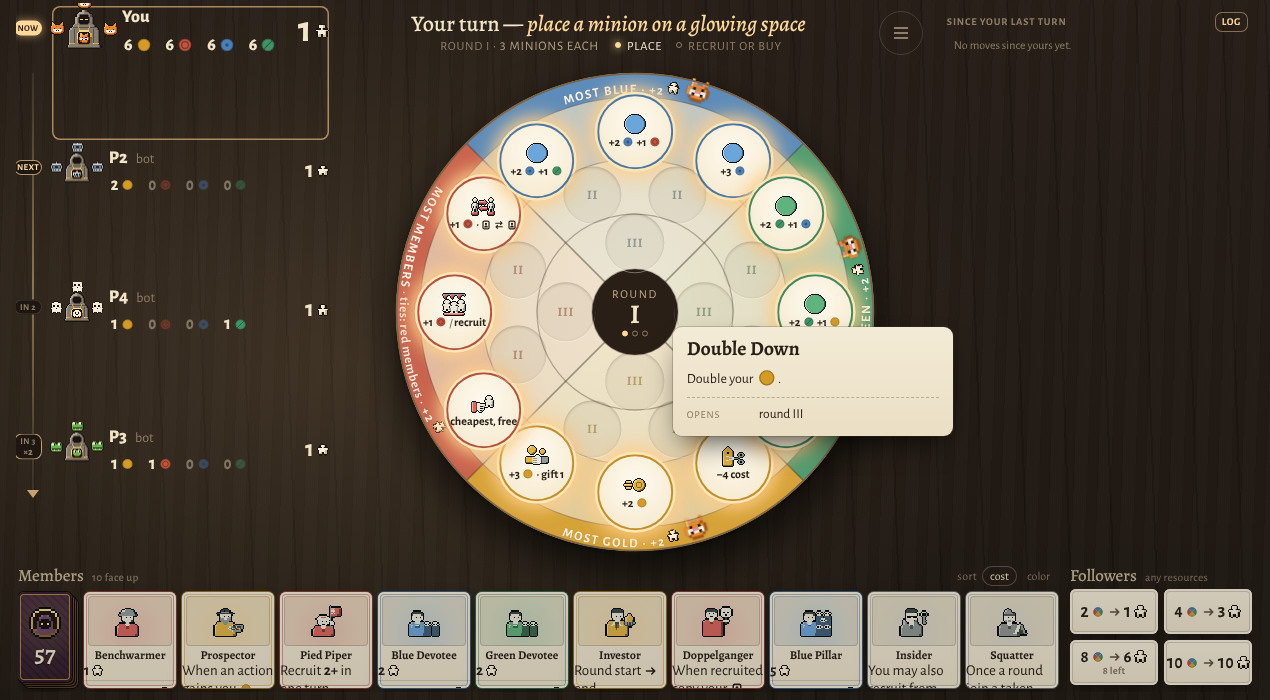
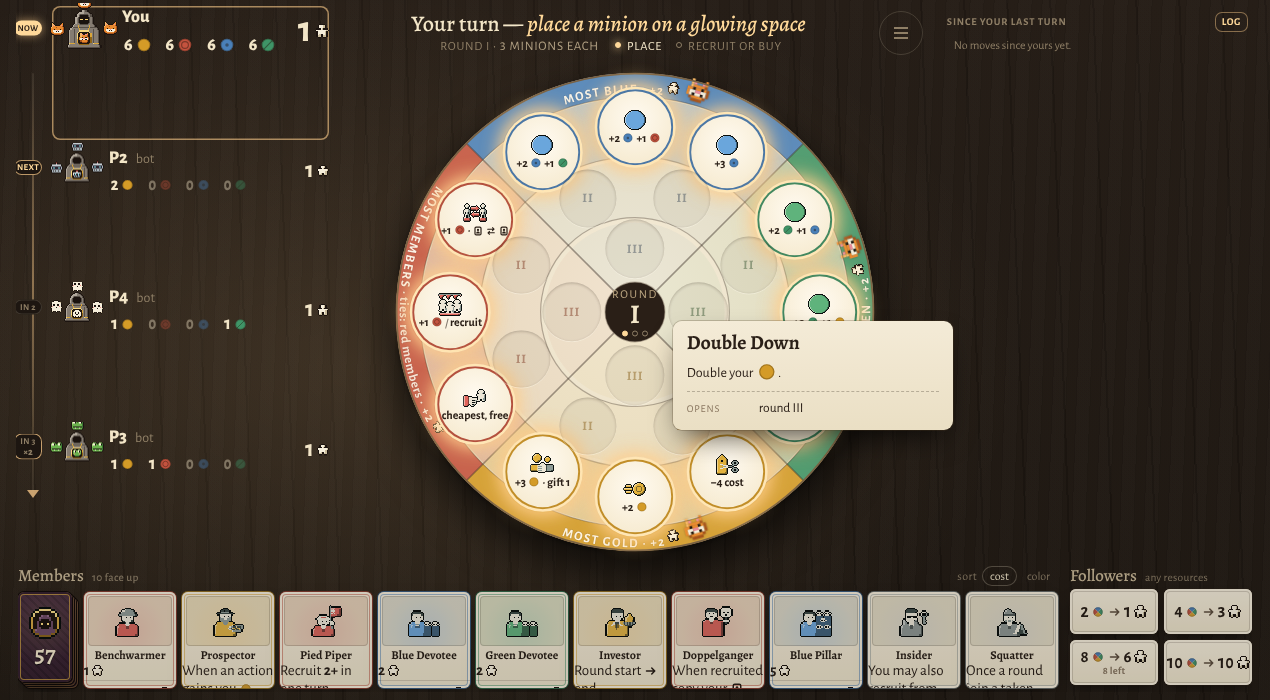
WIP checkpoint: rollout and layout in progress
Claude-Session: https://claude.ai/code/session_017rw3aQa9iJEjdvvwQLY84z

Changed region(s): [[0.3071, 0.09, 0.7677, 0.78], [0.0614, 0.63, 0.0921, 0.66]]

diff --git a/src/v4/cardText.js b/src/v4/cardText.js
@@ -189,11 +189,58 @@ export function cardLines(def) {
   };
 }
 
-/** How wide a line reads, in ems of its type (marks and dots count as a glyph): the shop card picks the effect's size by it. */
+// ---------- measuring a line (Alegreya Sans advance widths in hundredths of an em, measured in Chromium) ----------
+const CHARS = " !\"#$%&'()*+,-./0123456789:;<=>?@ABCDEFGHIJKLMNOPQRSTUVWXYZ[\\]^_`abcdefghijklmnopqrstuvwxyz{|}~\u2019\u00d7\u00bd\u2212\u2264\u2192\u00e9\u2026\u00b7\u2713";
+const ADV = {
+  700: [15,26,35,55,45,85,71,20,29,30,38,48,23,30,23,28,52,36,47,43,50,43,48,43,49,48,23,23,48,48,48,34,84,60,58,52,65,51,46,60,70,29,33,58,43,80,69,64,55,65,59,50,50,64,59,90,62,56,55,29,28,29,44,44,39,48,52,38,53,47,33,50,53,26,28,49,26,81,53,49,52,52,35,38,34,52,44,70,46,45,42,29,31,29,48,21,48,74,48,55,100,47,63,23,88],
+  800: [15,26,35,55,45,85,71,20,29,30,38,48,23,30,23,28,52,36,47,43,50,43,48,43,49,48,23,23,48,48,48,34,84,60,58,52,65,51,46,60,70,29,33,58,43,80,69,64,55,65,59,50,50,64,59,90,62,56,55,29,28,29,44,44,39,48,52,38,53,47,33,50,53,26,28,49,26,81,53,49,52,52,35,38,34,52,44,70,46,45,42,29,31,29,48,21,48,74,48,55,100,47,63,23,88],
+};
+const GLYPH_EM = 0.86; // a dot or a mark: .8em plus its small margin
+const RES_WORDS = 'gold|red|blue|green|magenta|silver|yellow|purple|white|any';
+/** The pieces a printed line is drawn from (Info.jsx <Marks> draws the same split): numbers, dots, marks, words. */
+export const TOKENS = new RegExp(`(@[mrft]|->| / |[+−-]?\\d+\\+?|×\\d*|½|≤\\d+|\\b(?:${RES_WORDS})\\b)`);
+export const isGlyph = t => /^@[mrft]$|^->$/.test(t) || new RegExp(`^(?:${RES_WORDS})$`).test(t);
+export const isNum = t => /^(?:[+−-]?\d+\+?|×\d*|½|≤\d+)$/.test(t);
+const adv = (ch, w) => { const i = CHARS.indexOf(ch); return (i < 0 ? 0.55 : ADV[w][i] / 100); };
+/** Words of a line with their widths in ems (a number sticks to the glyph after it, as drawn). */
+export function lineWords(text, weight = 700) {
+  const parts = String(text || '').split(TOKENS);
+  const words = [];
+  let cur = 0, open = false, glue = false;
+  const push = () => { if (open) words.push(cur); cur = 0; open = false; };
+  parts.forEach((p, k) => {
+    if (!p) return;
+    if (k % 2) {
+      if (p === ' / ') { push(); words.push(adv('/', 700) + 0.2); return; }
+      const w = isGlyph(p) ? GLYPH_EM : [...p].reduce((t, ch) => t + adv(ch, 800), 0);
+      if (!(glue && isGlyph(p))) push();
+      cur += w; open = true; glue = isNum(p);
+      return;
+    }
+    if (p === ' ' && glue) { return; }
+    glue = false;
+    for (const [j, seg] of p.split(' ').entries()) {
+      if (j > 0) push();
+      if (seg) { cur += [...seg].reduce((t, ch) => t + adv(ch, weight), 0); open = true; }
+    }
+  });
+  push();
+  return words;
+}
+/** How many lines a line of text takes at `px` in a box `width` px wide (greedy wrap, a space between words). */
+export function linesAt(text, px, width, weight = 700) {
+  const words = lineWords(text, weight).map(w => w * px);
+  const space = adv(' ', weight) * px;
+  let lines = 0, x = 0;
+  for (const w of words) { if (!lines || x + space + w > width) { lines++; x = w; } else x += space + w; }
+  return { lines, widest: Math.max(0, ...words) };
+}
+/** The shop card's inner width (its narrowest: the 10-wide strip at 1270px, the phone's swipe row). */
+export const CARD_INNER = 82;
+/** The effect's size on the shop card: big (19px) when it fits one line, else 15px, else two lines at 11px. */
 export function effSize(eff) {
-  const s = String(eff || '');
-  const glyphs = (s.match(/@[mrft]|\b(?:gold|red|blue|green|magenta|silver|yellow|purple|white|any)\b/g) || []).length;
-  const plain = s.replace(/@[mrft]|\b(?:gold|red|blue|green|magenta|silver|yellow|purple|white|any)\b/g, '').replace(/\s+/g, ' ').trim().length;
-  const ems = plain * 0.5 + glyphs * 0.9;
-  return ems <= 5.2 ? 'l' : ems <= 8.4 ? 'm' : 's';
+  if (!eff) return 'l';
+  if (linesAt(eff, 19, CARD_INNER).lines <= 1) return 'l';
+  if (linesAt(eff, 15, CARD_INNER).lines <= 1) return 'm';
+  return 's';
 }

diff --git a/src/v4/game/Info.jsx b/src/v4/game/Info.jsx
@@ -15,6 +15,7 @@ import { Rich, Pip } from './Rich.jsx';
 import { Follower } from '../art/Follower.jsx';
 import { Sprite } from '../art/Sprite.jsx';
 import { spriteId } from '../art/index.js';
+import { TOKENS, isGlyph, isNum } from '../cardText.js';
 import { MO } from '../motion.js';
 
 /**
@@ -104,23 +105,33 @@ export function Mark({ k }) {
   const m = MARK[k];
   return <svg className={`mk mk-${k}`} viewBox="0 0 16 16" role="img" aria-label={m.label}><title>{m.label}</title>{m.d}</svg>;
 }
-const NUM = /([+−-]?\d+\+?|×\d*|½|≤\d+)/;
-/** Numbers heavy, the rest through Rich (resource words as their dots). */
-function Numbered({ text }) {
-  return <>{String(text).split(NUM).map((p, k) => (!p ? null : k % 2 ? <b key={k} className="n">{p}</b> : p === ' / ' || p === '/ ' || p === ' /' ? <span key={k} className="op"> / </span> : <Rich key={k} text={p} />))}</>;
-}
 /**
- * A printed line in the grammar's form (src/v4/cardText.js): the number first and heavy, resource words as their dots,
- * and the marks: @m a member, @r a rival, @f a follower, @t an extra turn, -> becomes, " / " per.
+ * A printed line in the grammar's form (src/v4/cardText.js): the number first and heavy, resource words as their dots
+ * (a number sits right on its dot: "+1●"), and the marks: @m a member, @r a rival, @f a follower, @t an extra turn,
+ * -> becomes, " / " per. cardText.js measures lines with the same split.
  */
 export function Marks({ text }) {
   if (!text) return null;
-  return <>{String(text).split(/(@[mrft]|->| \/ )/).map((p, k) => (
-    p === '@f' ? <Follower key={k} size={11} title="follower" />
-      : p === '->' ? <Mark key={k} k="a" />
-        : p === ' / ' ? <span key={k} className="op">/</span>
-          : /^@[mrt]$/.test(p) ? <Mark key={k} k={p[1]} />
-            : p ? <Numbered key={k} text={p} /> : null))}</>;
+  const parts = String(text).split(TOKENS);
+  const out = [];
+  let glue = false;
+  parts.forEach((p, k) => {
+    if (!p) return;
+    if (k % 2 === 0) {
+      if (p === ' ' && glue && parts[k + 1] && isGlyph(parts[k + 1])) return; // "+1 gold" draws as "+1●"
+      glue = false;
+      out.push(<span key={k}>{p}</span>);
+      return;
+    }
+    glue = isNum(p);
+    if (p === '@f') out.push(<Follower key={k} size={11} title="follower" />);
+    else if (p === '->') out.push(<Mark key={k} k="a" />);
+    else if (p === ' / ') out.push(<span key={k} className="op">/</span>);
+    else if (/^@[mrt]$/.test(p)) out.push(<Mark key={k} k={p[1]} />);
+    else if (isNum(p)) out.push(<b key={k} className="n">{p}</b>);
+    else out.push(<Pip key={k} color={p} />);
+  });
+  return <>{out}</>;
 }
 /** A cost as the plate prints it: "2● 2◐" (the number before its dot, colored part first, then any; no color names). */
 export function CostDots({ parts }) {

diff --git a/src/v4/game/Wheel.jsx b/src/v4/game/Wheel.jsx
@@ -282,8 +282,8 @@ function panelLayout({ s, R, rot, k, big, fine }) {
     const w = room(h + 4) * k;
     if (w >= Math.max(needBig, needFine, pic) + 2) return { bigLines: t.bl, fineLines: t.fl, big: t.bp, w: w / k };
   }
-  const t = tries[tries.length - 1];
-  return { bigLines: clauseList.length > 1 ? 2 : 1, fineLines: 0, big: PANEL_PX.bigMin, w: Math.max(room(pic + gap + 2 * t.bp), 20 / k) / (1 || 1) };
+  const bl = clauseList.length > 1 ? 2 : 1;
+  return { bigLines: bl, fineLines: 0, big: PANEL_PX.bigMin, w: Math.max(room(pic + gap + bl * PANEL_PX.bigMin), 24 / k) };
 }
 
 // Is the person driving with the keyboard? Focus moved to a space on its own (your turn begins) opens its card only
